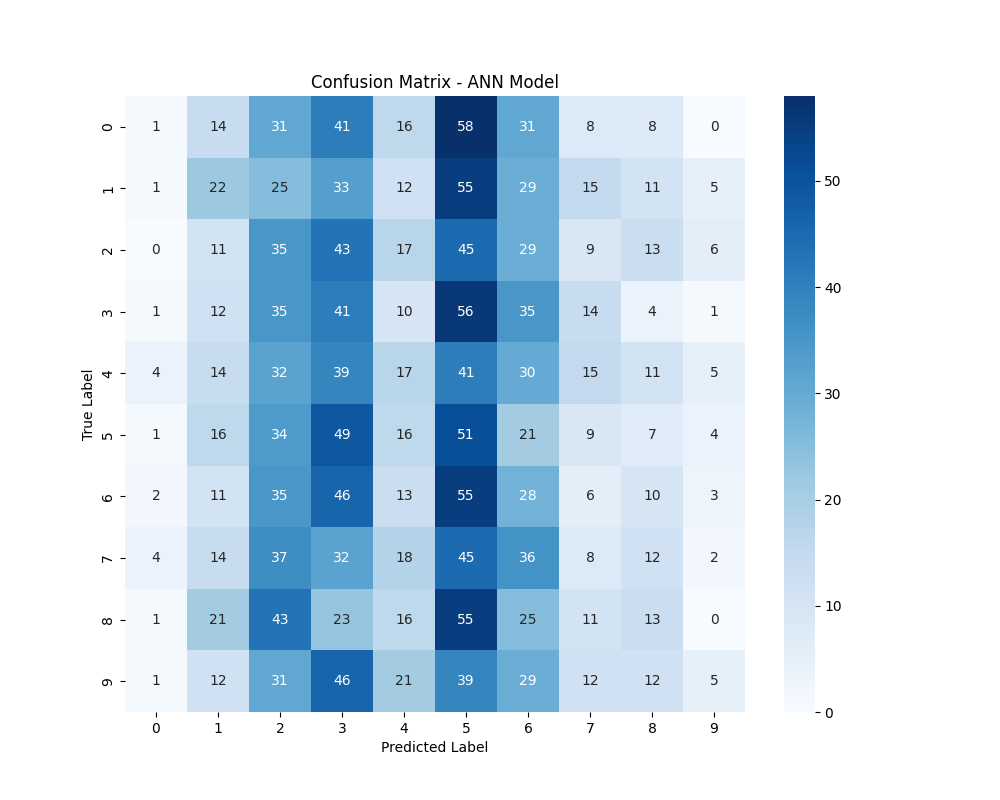
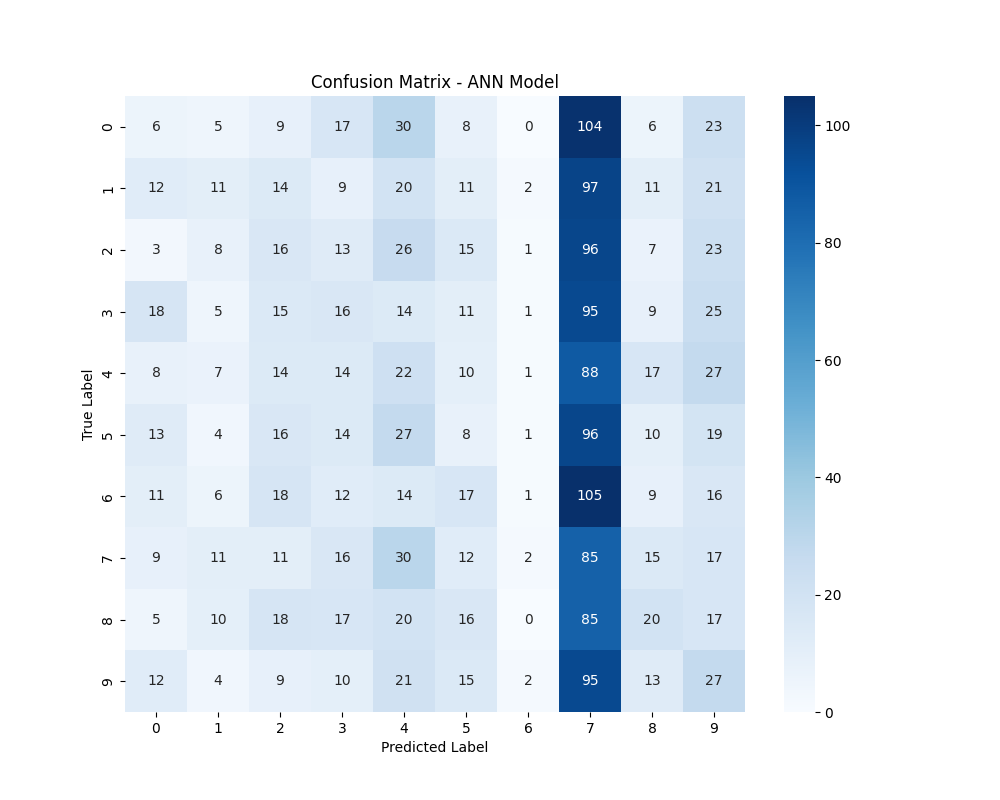
fix: correct file path and enhance ANN model architecture

diff --git a/careersage-backend/arxb.py b/careersage-backend/arxb.py
@@ -18,7 +18,7 @@ import matplotlib.pyplot as plt
 import seaborn as sns
 
 # Load Dataset
-df = pd.read_csv("/Users/tanmay/Developer/CareerSage/careersage-backend/career_recommend ation_processed_numeric.csv")
+df = pd.read_csv("/Users/tanmay/Developer/CareerSage/careersage-backend/career_recommendation_processed_numeric.csv")
 
 # Ensure Column Names Are Clean
 df.columns = df.columns.str.strip()
@@ -81,11 +81,11 @@ def build_improved_ann(input_dim, output_dim, dropout_rate=0.3):
     model = Sequential([
         Input(shape=(input_dim,)),
         BatchNormalization(),
+        Dense(512, activation='relu'),
+        Dropout(dropout_rate),
         Dense(256, activation='relu'),
         Dropout(dropout_rate),
         Dense(128, activation='relu'),
-        Dropout(dropout_rate),
-        Dense(64, activation='relu'),
         Dropout(dropout_rate/2),
         Dense(output_dim, activation='softmax')
     ])
